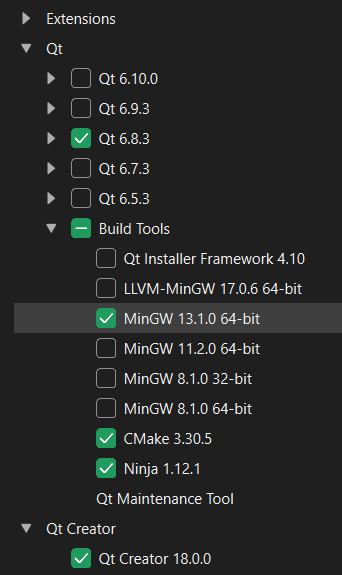
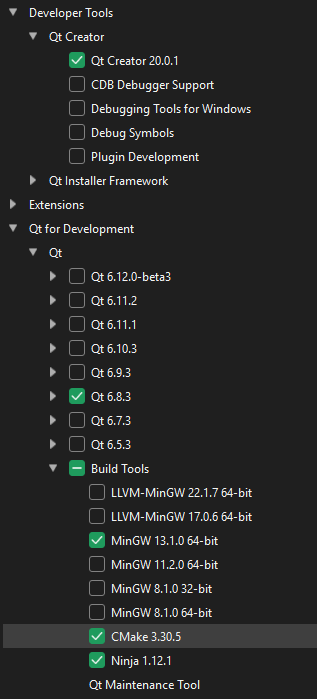
updated Windows installation instructions

Changed region(s): [[0.0, 0.0, 1.0, 1.0], [0.1136, 0.1774, 0.1703, 0.207], [0.0284, 0.2661, 0.0568, 0.3252]]

diff --git a/doc/install_win.md b/doc/install_win.md
@@ -14,10 +14,9 @@ First, we need to install Qt and some basic dependencies:
 * The installer will also ask if you belong to an organization (as an individual developer, you may leave this field empty): ![Your organization](qt-installer-organization.png)
 * Select the `Custom installation`:
 ![Custom Qt installation](qt-installer-custom.png)
-* Choose Qt 6.8.3 (select all components, since we will need them, especially the source code), build tools (MinGW 13.1.0 , CMake, Ninja, OpenSSL), Qt Creator (all components):
-
-  ![Selection Qt components](qt-installer-components.png)
-* The installation may take a while, its total duration mainly depends on your internet connection speed, since the installer downloads everything from the server (about 7GB).
+* Qt Creator, Qt 6.8.3 (select all components, since we will need most), MinGW 13.1.0, CMake, Ninja:
+![Selection Qt components](qt-installer-components.png)
+* The installation may take a while, since the installer downloads everything from the server (about 7GB).
 
 ### Unpack htslib
 
